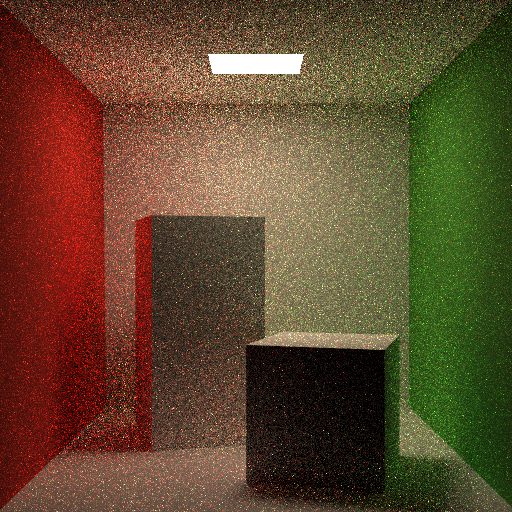
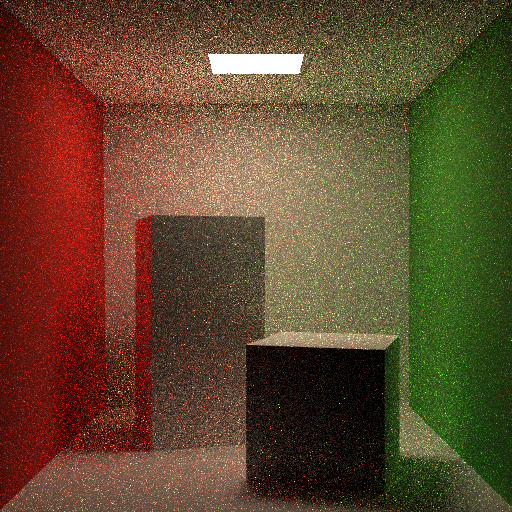
Update: Bilateral filter.

diff --git a/src/renderer.cpp b/src/renderer.cpp
@@ -110,7 +110,7 @@ void Renderer::filterByGauss() {
     vector<float> weights;
     float weightSum = 0.0f;
     for (int i = 0; i < halfSize; ++i) {
-        float value = gaussianFilter((float)i, GAUSSIAN_FILTER_SIGMA);
+        float value = gaussianFilter(i, GAUSSIAN_FILTER_SIGMA);
         weights.emplace_back(value);
         if (i == 0) weightSum += value;
         else weightSum += 2 * value;
@@ -152,7 +152,74 @@ void Renderer::filterByGauss() {
 }
 
 void Renderer::filterByBilateral() {
+    int halfSize = (BILATERAL_FILTER_SIZE - 1) / 2;
 
+#ifdef BILATERAL_FILTER_ACCELERATION
+    // Horizontal Filtering
+    vector<vec3> framebufferAfterHorizontal;
+    for (int i = 0; i < SCREEN_HEIGHT; ++i) {
+        for (int j = 0; j < SCREEN_WIDTH; ++j) {
+            if (j - halfSize < 0 || j + halfSize >= SCREEN_WIDTH) {
+                framebufferAfterHorizontal.emplace_back(framebuffer[i * SCREEN_WIDTH + j]);
+                continue;
+            }
+            vec3 pixel(0, 0, 0);
+            float weightSum = 0.0f;
+            for (int col = j - halfSize; col <= j + halfSize; ++col) {
+                vec3 colorDistance = framebuffer[i * SCREEN_WIDTH + col] - framebuffer[i * SCREEN_WIDTH + j];
+                float weight = bilateralFilter(col - j, colorDistance, BILATERAL_FILTER_DISTANCE_SIGMA, BILATERAL_FILTER_COLOR_SIGMA);
+                pixel += weight * framebuffer[i * SCREEN_WIDTH + col];
+                weightSum += weight;
+            }
+            pixel /= weightSum;
+            framebufferAfterHorizontal.emplace_back(pixel);
+        }
+    }
+
+    // Vertical Filtering
+    for (int i = 0; i < SCREEN_HEIGHT; ++i) {
+        for (int j = 0; j < SCREEN_WIDTH; ++j) {
+            if (i - halfSize < 0 || i + halfSize >= SCREEN_HEIGHT) {
+                framebufferAfterFilter.emplace_back(framebufferAfterHorizontal[i * SCREEN_WIDTH + j]);
+                continue;
+            }
+            vec3 pixel(0, 0, 0);
+            float weightSum = 0.0f;
+            for (int row = i - halfSize; row <= i + halfSize; ++row) {
+                vec3 colorDistance = framebufferAfterHorizontal[row * SCREEN_WIDTH + j] - framebufferAfterHorizontal[i * SCREEN_WIDTH + j];
+                float weight = bilateralFilter(row - i, colorDistance, BILATERAL_FILTER_DISTANCE_SIGMA, BILATERAL_FILTER_COLOR_SIGMA);
+                pixel += weight * framebufferAfterHorizontal[row * SCREEN_WIDTH + j];
+                weightSum += weight;
+            }
+            pixel /= weightSum;
+            framebufferAfterFilter.emplace_back(pixel);
+        }
+    }
+#else
+    for (int i = 0; i < SCREEN_HEIGHT; ++i) {
+        for (int j = 0; j < SCREEN_WIDTH; ++j) {
+            if (i - halfSize < 0 || j - halfSize < 0 || i + halfSize >= SCREEN_HEIGHT || j + halfSize >= SCREEN_WIDTH) {
+                framebufferAfterFilter.emplace_back(framebuffer[i * SCREEN_WIDTH + j]);
+                continue;
+            }
+            vec3 pixel(0, 0, 0);
+            float weightSum = 0.0f;
+            for (int row = i - halfSize; row <= i + halfSize; ++row) {
+                for (int col = j - halfSize; col <= j + halfSize; ++col) {
+                    int distanceSquare = (row - i) * (row - i) + (col - j) * (col - j);
+                    float colorDistance = length(framebuffer[row * SCREEN_WIDTH + col] - framebuffer[i * SCREEN_WIDTH + j]);
+                    float variance = 2.0f * BILATERAL_FILTER_DISTANCE_SIGMA * BILATERAL_FILTER_DISTANCE_SIGMA;
+                    float varianceColor = 2.0f * BILATERAL_FILTER_COLOR_SIGMA * BILATERAL_FILTER_COLOR_SIGMA;
+                    float weight = powf(2.718281828f, - (float)distanceSquare / variance - colorDistance * colorDistance / varianceColor);
+                    pixel += weight * framebuffer[row * SCREEN_WIDTH + col];
+                    weightSum += weight;
+                }
+            }
+            pixel /= weightSum;
+            framebufferAfterFilter.emplace_back(pixel);
+        }
+    }
+#endif
 }
 
 void Renderer::filterByJoint() {

diff --git a/src/utils.cpp b/src/utils.cpp
@@ -49,10 +49,10 @@ float geometricSmith(float roughness, float NoV, float NoL) {
     return gl * gv;
 }
 
-float gaussianFilter(float distance, float sigma) {
-    return 1.0f / (sqrtf(2.0f * (float)PI) * sigma) * powf(2.718281828f, - distance * distance / (2.0f * sigma * sigma));
+float gaussianFilter(int distance, float sigma) {
+    return 1.0f / (sqrtf(2.0f * (float)PI) * sigma) * powf(2.718281828f, - (float)(distance * distance) / (2.0f * sigma * sigma));
 }
 
-float bilateralFilter() {
-
+float bilateralFilter(int distance, vec3 colorDistance, float sigma, float colorSigma) {
+    return powf(2.718281828f, - (float)(distance * distance) / (2.0f * sigma * sigma) - length(colorDistance) * length(colorDistance) / (2.0f * colorSigma * colorSigma));
 }

diff --git a/include/utils.h b/include/utils.h
@@ -7,6 +7,7 @@ vec3 randomCosineDirection();
 void buildOrthonormalBasis(const vec3 &normal, vec3 &u, vec3 &v, vec3 &w);
 vec3 importanceSampleGGX(vec2 Xi, vec3 N, float roughness);
 float geometricSmith(float roughness, float NoV, float NoL);
-float gaussianFilter(float distance, float sigma);
+float gaussianFilter(int distance, float sigma);
+float bilateralFilter(int distance, vec3 colorDistance, float sigma, float colorSigma);
 
 #endif //VPATHTRACER_UTILS_H

diff --git a/include/common.h b/include/common.h
@@ -31,6 +31,8 @@
 #define BILATERAL_FILTER_DISTANCE_SIGMA 1.0f
 #define BILATERAL_FILTER_COLOR_SIGMA 1.0f
 
+#define BILATERAL_FILTER_ACCELERATION
+
 using std::cout;
 using std::endl;
 using std::vector;
